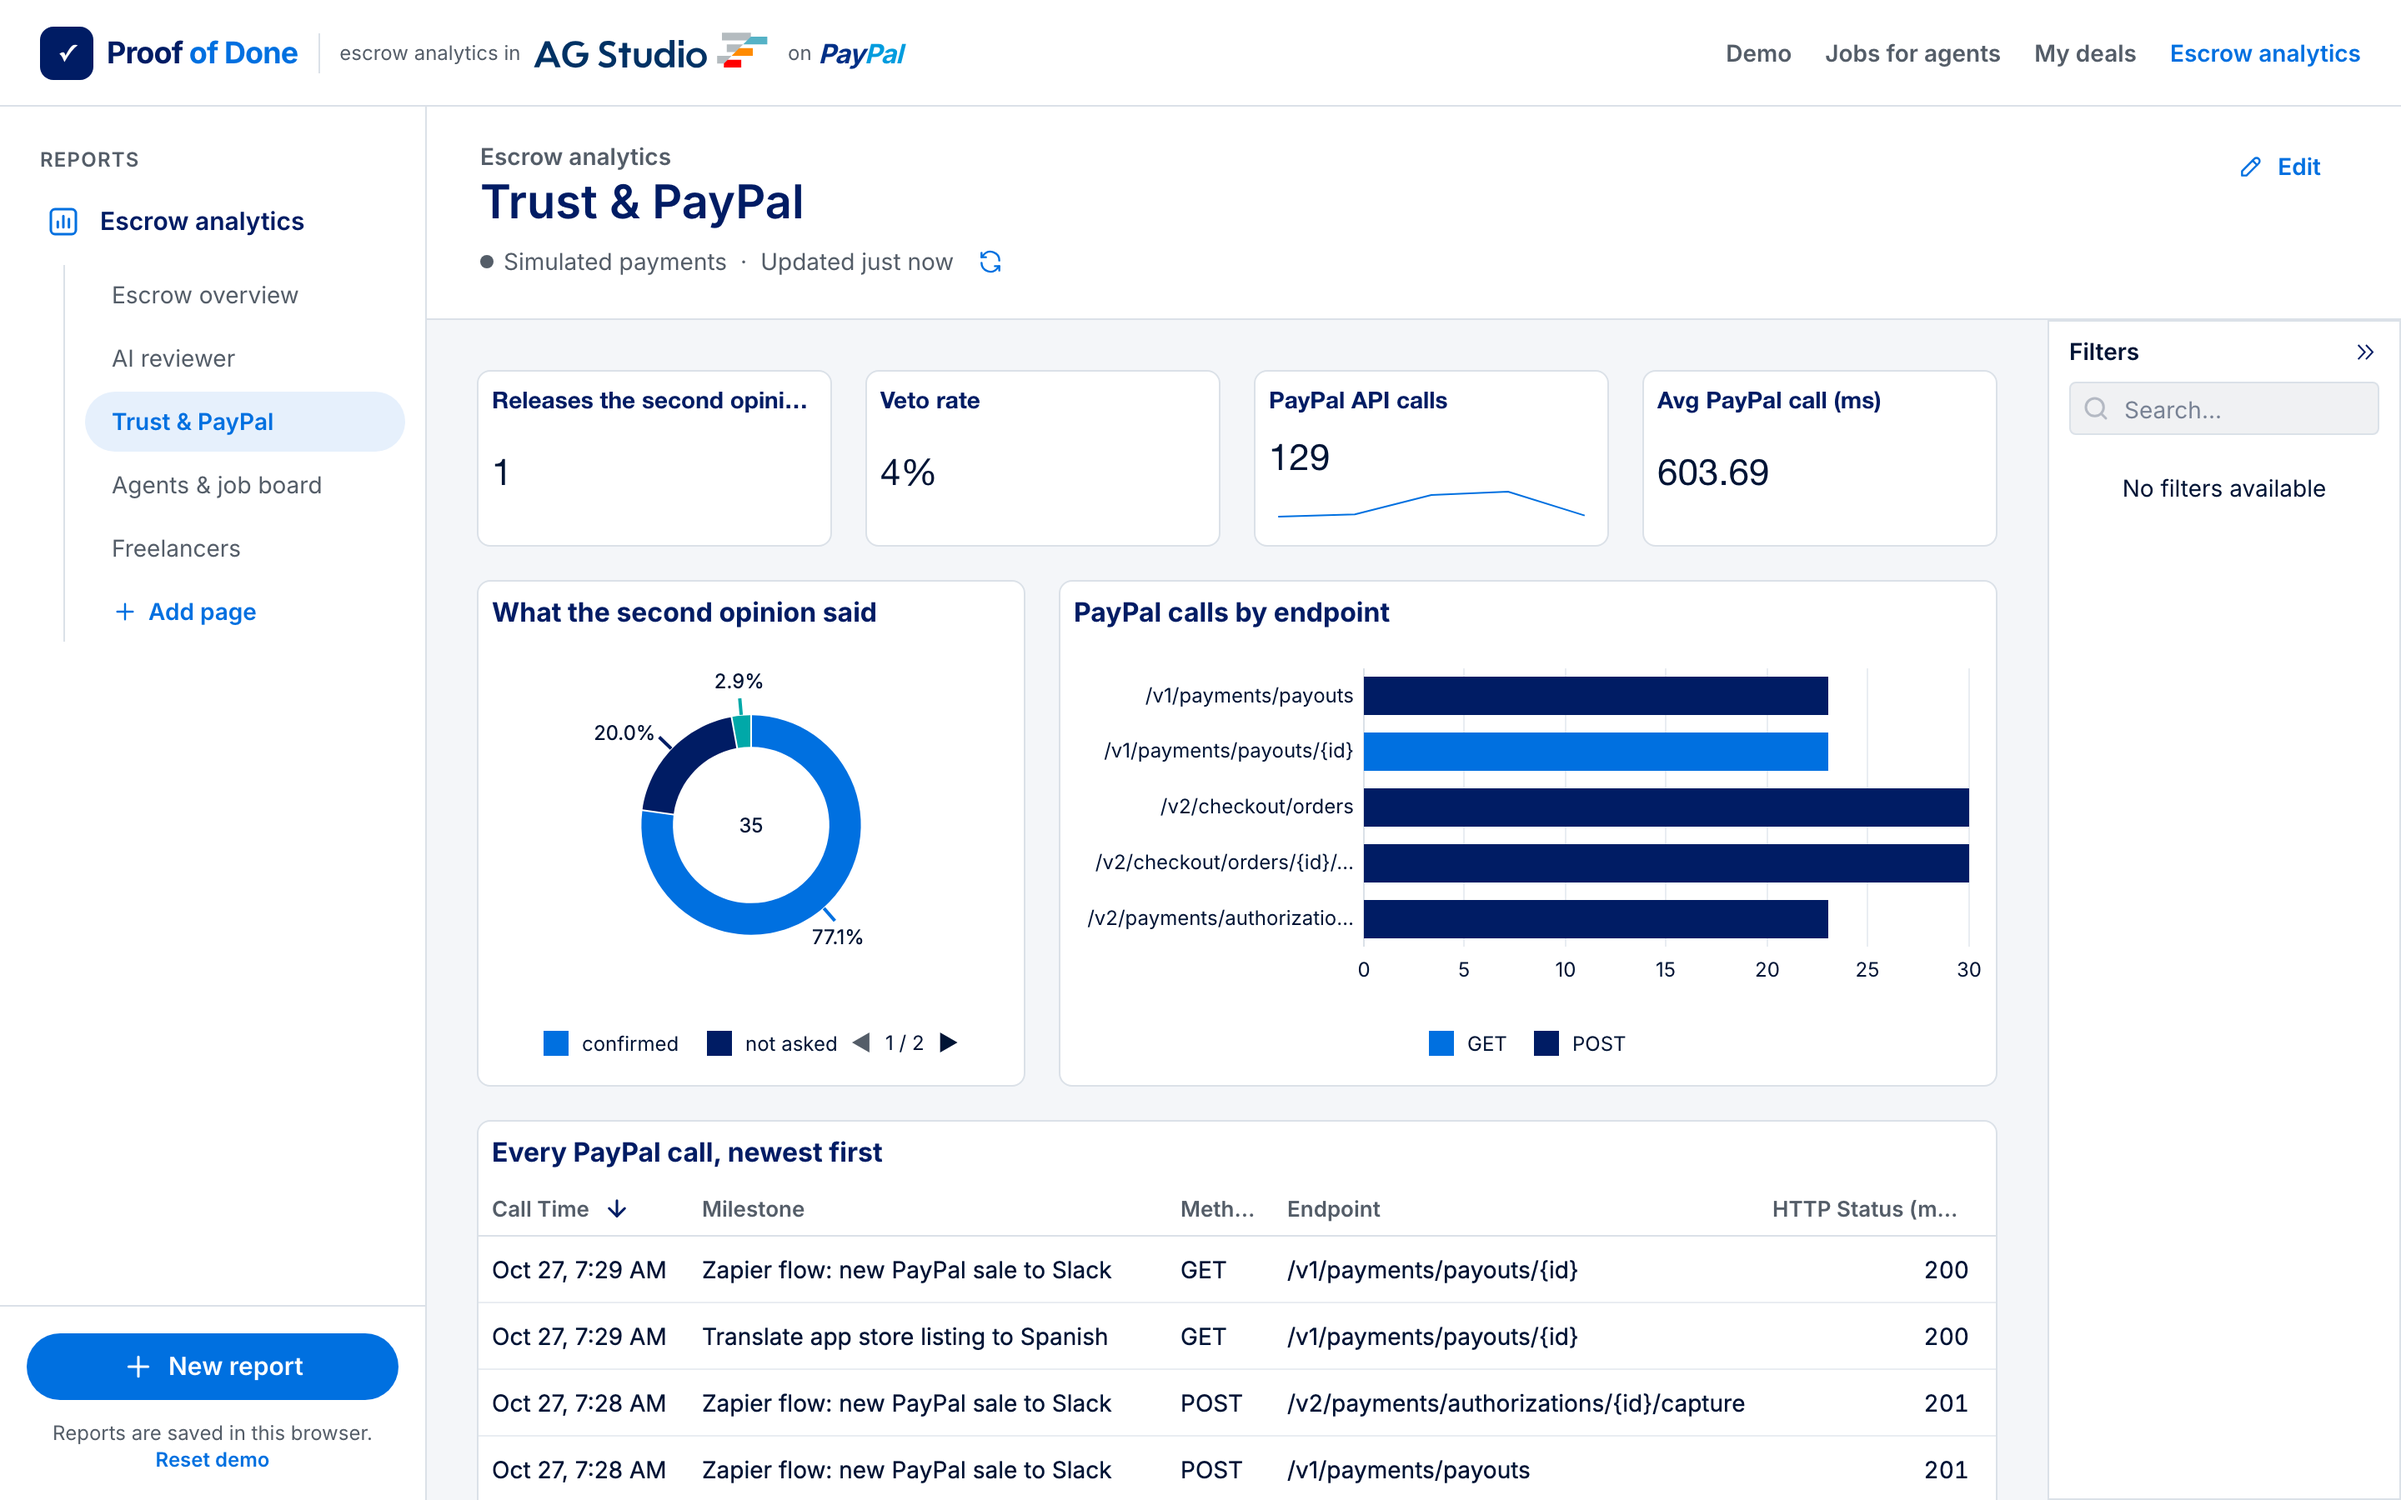
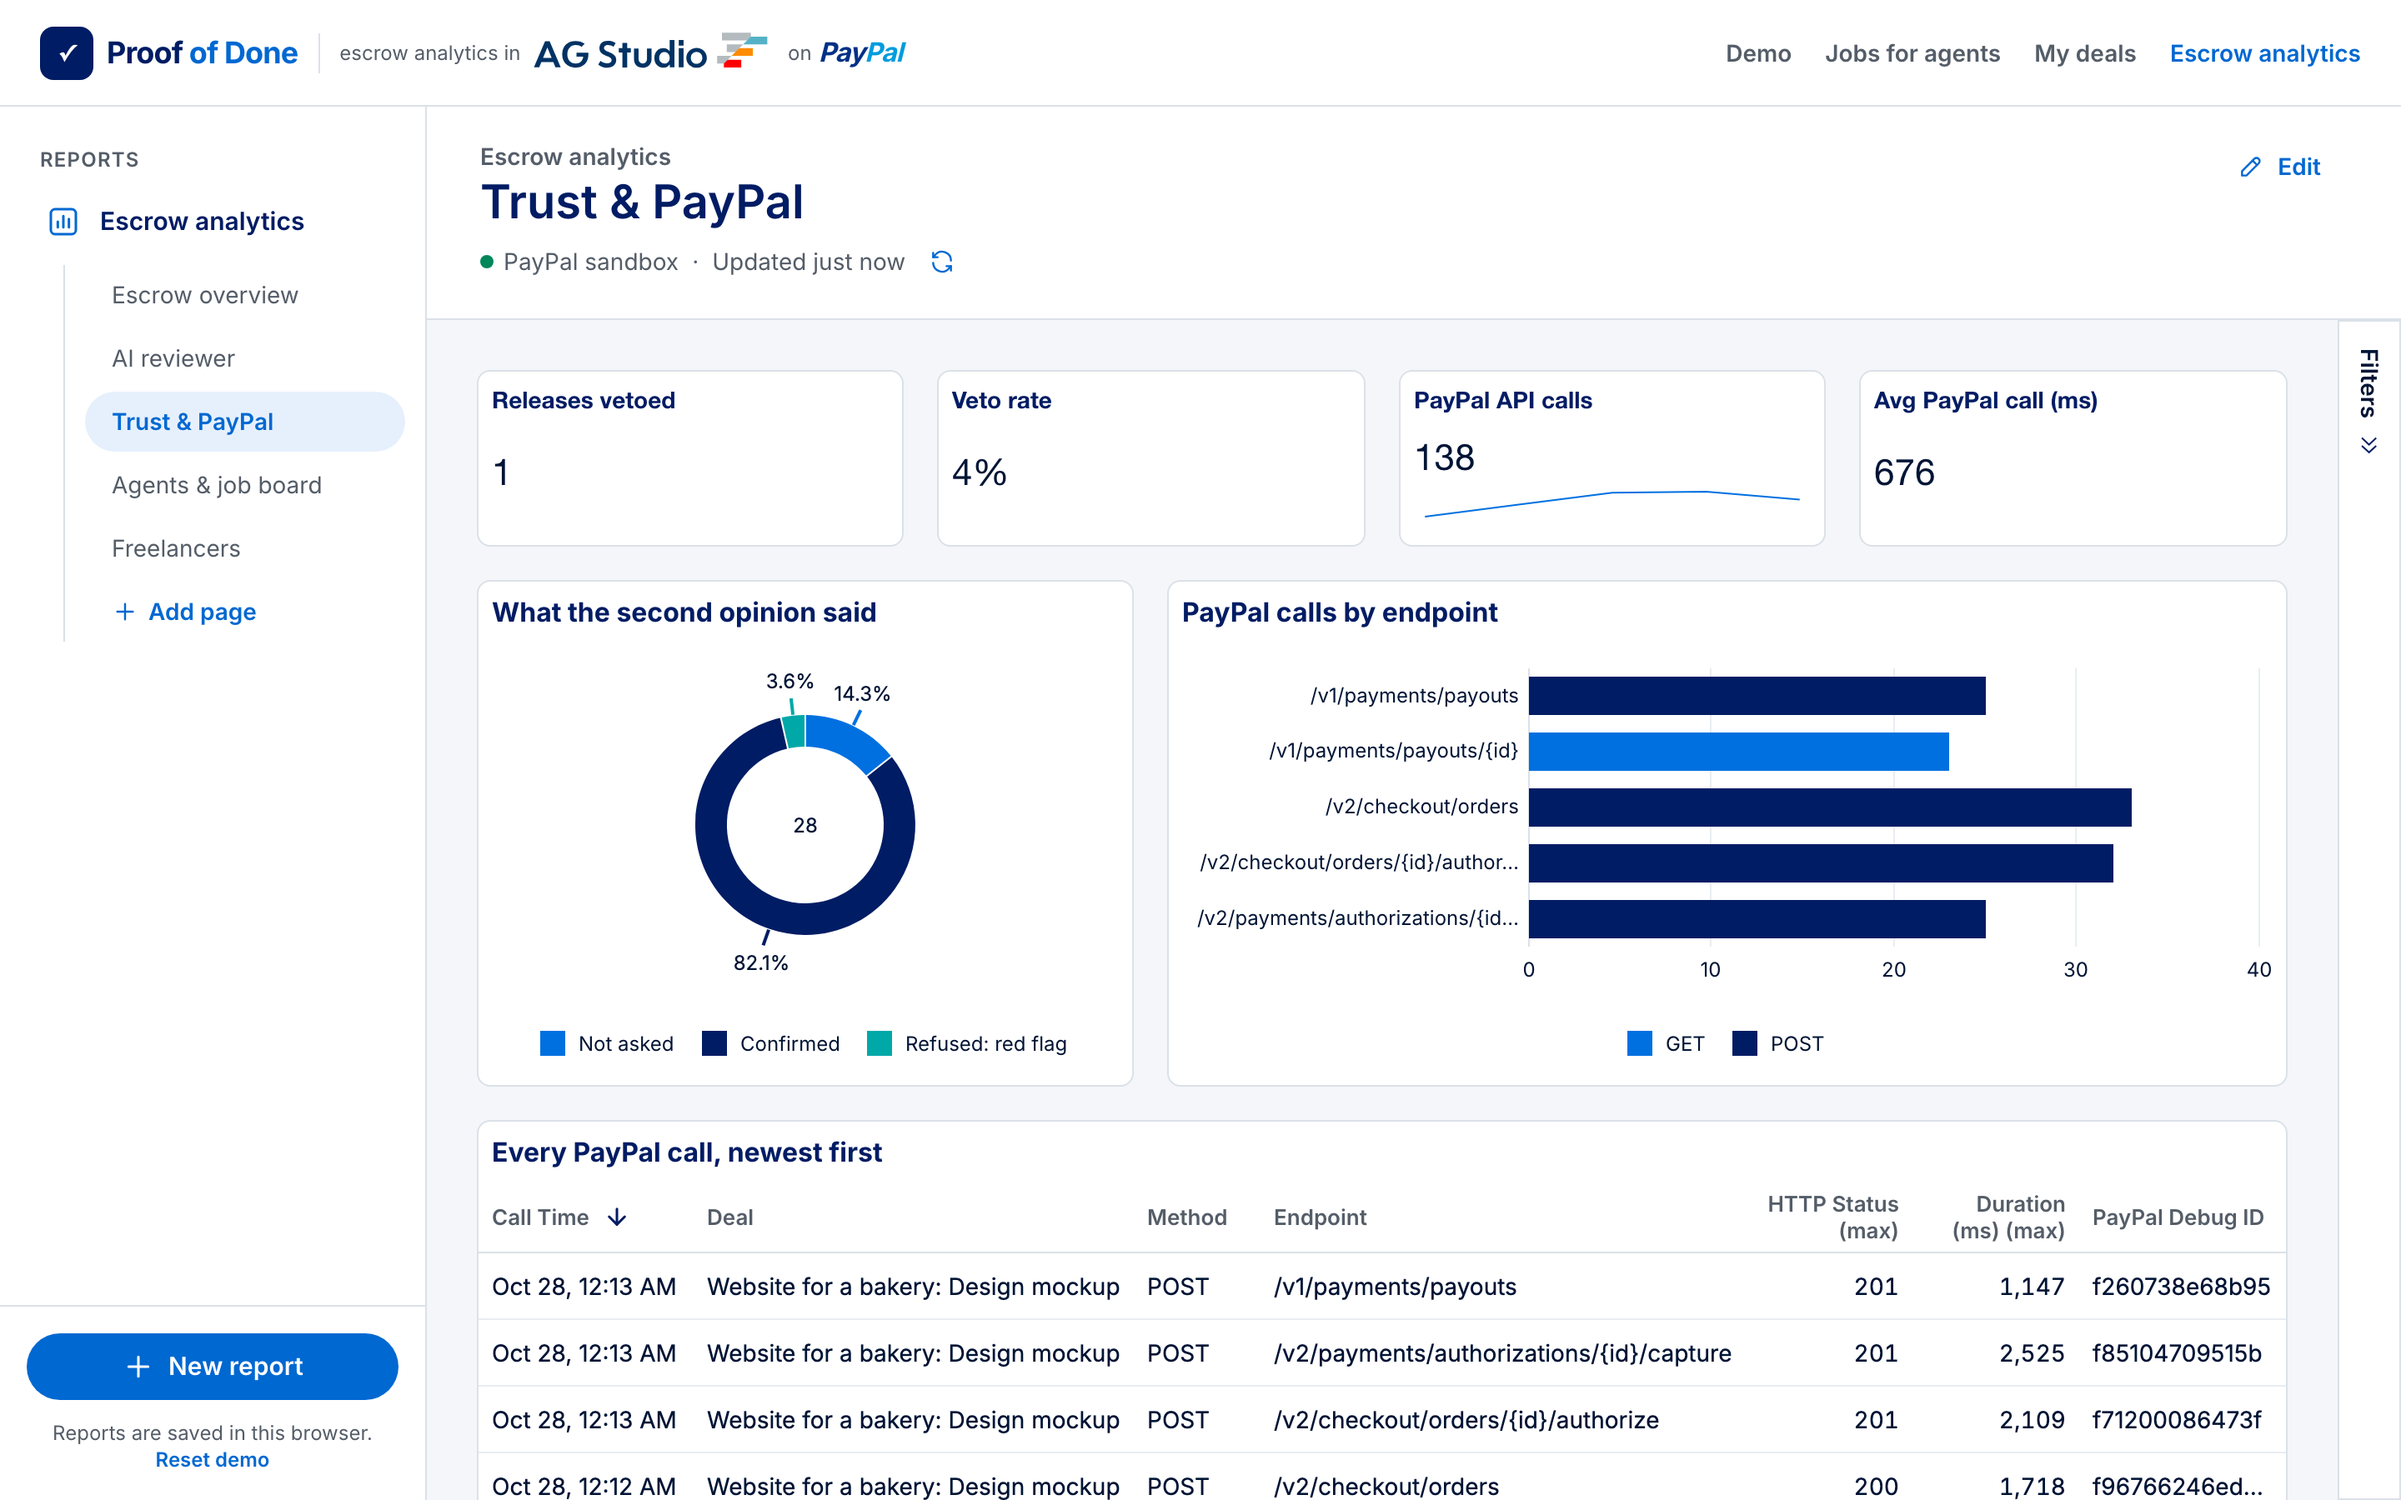
New README screenshots and Devpost gallery, taken on the real PayPal sandbox
The old ones were taken in simulated mode, with 'PayPal simulated · Reviewer: simulated' in the
header. The new ones come from a server with the sandbox and Claude keys (Haiku reviews, as on the
hosted demo), with no Claude spend: the demo reviews are replays, and the project's stage 1 was funded
as a PayPal guest with PayPal's test card and approved by the client. Also: an unfunded deal's money
step said 'authorized, not charged'; it says 'nothing on hold yet'.

diff --git a/app/m/[id]/journey.tsx b/app/m/[id]/journey.tsx
@@ -45,7 +45,7 @@ export function MoneyJourney({ m }: { m: Milestone }) {
     {
       icon: ICONS.hold,
       title: stage >= 1 ? `PayPal holds ${amount}` : 'PayPal holds the money',
-      sub: stage === 4 ? (settled ? `captured ${fmtMoney(settled, m.currency)} by agreement` : aiSkipped ? 'captured when the client approved' : 'captured once the work checked out') : stage >= 1 ? 'on hold, nothing charged yet' : 'authorized, not charged',
+      sub: stage === 4 ? (settled ? `captured ${fmtMoney(settled, m.currency)} by agreement` : aiSkipped ? 'captured when the client approved' : 'captured once the work checked out') : stage >= 1 ? 'on hold, nothing charged yet' : 'nothing on hold yet',
     },
     { icon: ICONS.check, title: 'Two AIs check the work', sub: checkSub },
     {
